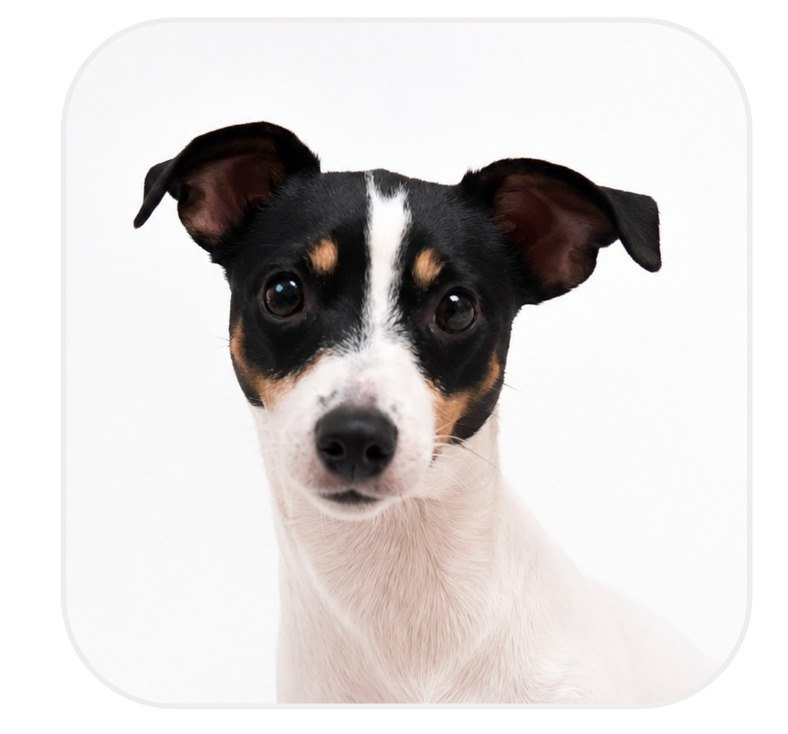
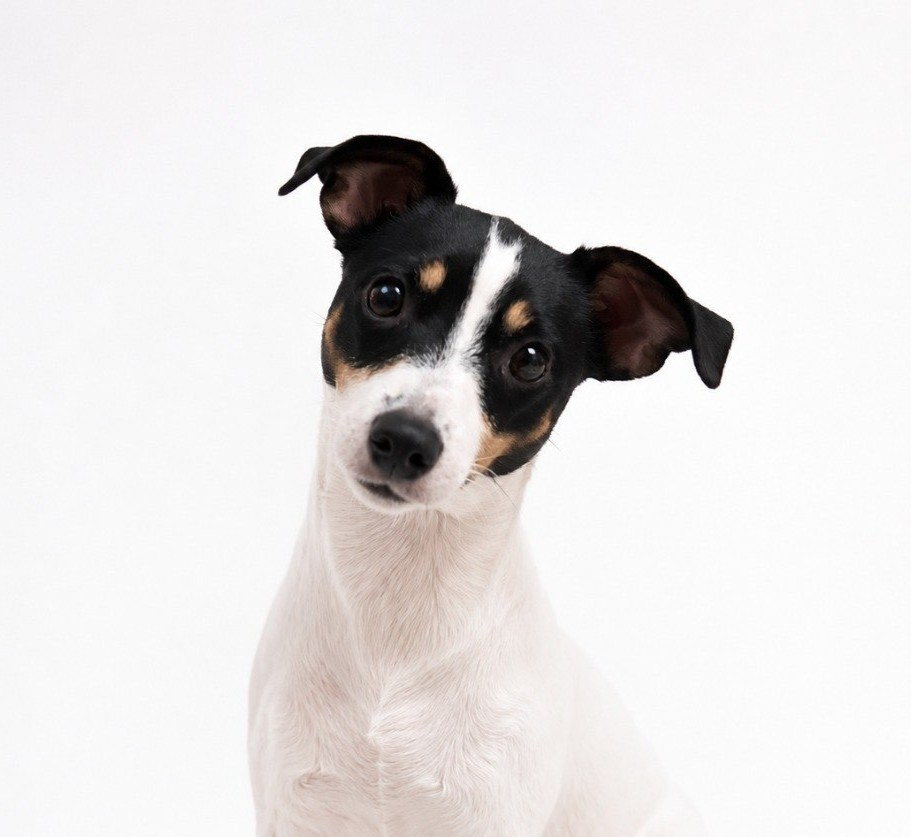
back2

Changed region(s): [[0.1523, 0.1499, 0.8528, 1.0]]

diff --git a/css/cookie-consent.css b/css/cookie-consent.css
@@ -1,0 +1,98 @@
+.cookie-consent {
+  position: fixed;
+  right: 24px;
+  bottom: 24px;
+  z-index: 1000;
+  width: min(520px, calc(100vw - 32px));
+  padding: 20px;
+  border: 1.5px solid var(--color-border, #1a1a1a);
+  border-radius: 18px;
+  background: #fffaf1;
+  color: var(--color-text, #1a1a1a);
+  box-shadow: 0 14px 34px rgba(26, 26, 26, 0.16);
+  font-family: var(--font-main, "PT Mono", monospace);
+}
+
+.cookie-consent[hidden] {
+  display: none;
+}
+
+.cookie-consent__title {
+  margin: 0 0 8px;
+  font-family: var(--font-accent, "Neucha", cursive);
+  font-size: 30px;
+  font-weight: 400;
+  line-height: 1;
+}
+
+.cookie-consent__text {
+  margin: 0;
+  font-size: 14px;
+  line-height: 1.55;
+}
+
+.cookie-consent__actions {
+  display: flex;
+  flex-wrap: wrap;
+  align-items: center;
+  gap: 10px;
+  margin-top: 16px;
+}
+
+.cookie-consent__button,
+.cookie-consent__link {
+  display: inline-flex;
+  align-items: center;
+  justify-content: center;
+  min-height: 42px;
+  padding: 11px 16px;
+  border: 1.5px solid var(--color-border, #1a1a1a);
+  border-radius: 999px;
+  color: var(--color-text, #1a1a1a);
+  font-family: inherit;
+  font-size: 13px;
+  font-weight: 700;
+  line-height: 1;
+  text-decoration: none;
+  cursor: pointer;
+}
+
+.cookie-consent__button--primary {
+  background: var(--color-accent, #ffc21a);
+  box-shadow: 0 8px 18px rgba(255, 194, 26, 0.28);
+}
+
+.cookie-consent__button--secondary,
+.cookie-consent__link {
+  background: #ffffff;
+}
+
+.cookie-consent__button:focus-visible,
+.cookie-consent__link:focus-visible {
+  outline: 2px solid var(--color-border, #1a1a1a);
+  outline-offset: 3px;
+}
+
+@media (max-width: 540px) {
+  .cookie-consent {
+    right: 12px;
+    bottom: 12px;
+    width: calc(100vw - 24px);
+    padding: 16px;
+    border-radius: 16px;
+  }
+
+  .cookie-consent__title {
+    font-size: 26px;
+  }
+
+  .cookie-consent__actions {
+    align-items: stretch;
+    flex-direction: column;
+  }
+
+  .cookie-consent__button,
+  .cookie-consent__link {
+    width: 100%;
+  }
+}

diff --git a/js/cookie-consent.js b/js/cookie-consent.js
@@ -1,0 +1,68 @@
+(function () {
+  const STORAGE_KEY = 'petlioCookieConsent';
+
+  function getStoredConsent() {
+    try {
+      return localStorage.getItem(STORAGE_KEY);
+    } catch (error) {
+      return null;
+    }
+  }
+
+  function saveConsent(value) {
+    try {
+      localStorage.setItem(STORAGE_KEY, JSON.stringify({
+        value,
+        acceptedAt: new Date().toISOString(),
+      }));
+    } catch (error) {
+      return;
+    }
+  }
+
+  if (getStoredConsent()) {
+    return;
+  }
+
+  function createBanner() {
+    const banner = document.createElement('section');
+    banner.className = 'cookie-consent';
+    banner.setAttribute('aria-label', 'Уведомление о cookie');
+    banner.innerHTML = `
+      <h2 class="cookie-consent__title">Cookie-файлы</h2>
+      <p class="cookie-consent__text">
+        Мы используем обязательные cookie для работы сайта и оформления заказа.
+        Аналитические cookie помогают нам улучшать сервис.
+      </p>
+      <div class="cookie-consent__actions">
+        <button class="cookie-consent__button cookie-consent__button--primary" type="button" data-cookie-choice="all">
+          Принять все
+        </button>
+        <button class="cookie-consent__button cookie-consent__button--secondary" type="button" data-cookie-choice="necessary">
+          Только обязательные
+        </button>
+        <a class="cookie-consent__link" href="cookie-consent.html">Подробнее</a>
+      </div>
+    `;
+
+    banner.addEventListener('click', (event) => {
+      const button = event.target.closest('[data-cookie-choice]');
+
+      if (!button) {
+        return;
+      }
+
+      saveConsent(button.dataset.cookieChoice);
+      banner.hidden = true;
+    });
+
+    document.body.appendChild(banner);
+  }
+
+  if (document.readyState === 'loading') {
+    document.addEventListener('DOMContentLoaded', createBanner);
+    return;
+  }
+
+  createBanner();
+})();

diff --git a/privacy.html b/privacy.html
@@ -8,6 +8,7 @@
   <link rel="preconnect" href="https://fonts.gstatic.com" crossorigin>
   <link href="https://fonts.googleapis.com/css2?family=Neucha&family=PT+Mono:wght@400;600;700&display=swap" rel="stylesheet">
   <link rel="stylesheet" href="css/privacy.css">
+  <link rel="stylesheet" href="css/cookie-consent.css">
 </head>
 <body>
   <header class="site-header">
@@ -115,7 +116,18 @@
         <p>E-mail: <a href="mailto:[email redacted]">[email redacted]</a></p>
         <p>Телефон: <a href="tel:[phone redacted]">[phone redacted]</a></p>
       </section>
+
+      <section>
+        <h2>10. Использование cookie-файлов и похожих технологий</h2>
+        <p>Сайт PETLIO может использовать cookie-файлы, localStorage и иные похожие технологии, необходимые для корректной работы сайта, оформления заказа, сохранения выбранных пользователем настроек и повышения удобства использования сервиса.</p>
+        <p>Обязательные cookie и технические записи используются для работы основных функций сайта, включая оформление заказа, сохранение выбранного размера адресника, данных конструктора и выбранного пользователем варианта согласия. Такие технологии не предназначены для рекламного профилирования пользователя.</p>
+        <p>Аналитические cookie могут использоваться только для получения обобщенной статистики о посещаемости сайта, понимания того, как посетители используют сайт, выявления технических ошибок и улучшения сервиса. При использовании аналитических cookie PETLIO стремится не обрабатывать больше данных, чем необходимо для указанных целей.</p>
+        <p>При первом посещении сайта пользователю показывается уведомление о cookie-файлах. Нажимая «Принять все», пользователь соглашается на использование обязательных и аналитических cookie. Нажимая «Только обязательные», пользователь отказывается от аналитических cookie, при этом обязательные cookie и технические записи, необходимые для работы сайта, могут продолжать использоваться.</p>
+        <p>Пользователь может ограничить или удалить cookie-файлы в настройках своего браузера. Ограничение обязательных cookie или технического хранилища браузера может привести к некорректной работе отдельных функций сайта, включая оформление заказа и сохранение данных конструктора.</p>
+        <p>Подробнее об использовании cookie-файлов можно узнать на странице <a href="cookie-consent.html">cookie-consent.html</a>.</p>
+      </section>
     </article>
   </main>
+  <script src="js/cookie-consent.js"></script>
 </body>
 </html>

diff --git a/create.html b/create.html
@@ -10,6 +10,7 @@
   <link rel="stylesheet" href="css/style2.css">
   <link rel="stylesheet" href="css/animations.css">
   <link rel="stylesheet" href="css/responsive.css">
+  <link rel="stylesheet" href="css/cookie-consent.css">
 </head>
 <body>
   <header class="site-header">
@@ -248,5 +249,6 @@
 
   <script src="js/create.js"></script>
   <script src="js/slider.js"></script>
+  <script src="js/cookie-consent.js"></script>
 </body>
 </html>

diff --git a/index.html b/index.html
@@ -10,6 +10,7 @@
   <link rel="stylesheet" href="css/style.css">
   <link rel="stylesheet" href="css/animations.css">
   <link rel="stylesheet" href="css/responsive.css">
+  <link rel="stylesheet" href="css/cookie-consent.css">
 </head>
 <body>
   <header class="site-header">
@@ -244,5 +245,6 @@
   <script src="js/main.js"></script>
   <script src="js/animation.js"></script>
   <script src="js/slider.js"></script>
+  <script src="js/cookie-consent.js"></script>
 </body>
 </html>

diff --git a/order.html b/order.html
@@ -8,6 +8,7 @@
   <link rel="preconnect" href="https://fonts.gstatic.com" crossorigin>
   <link href="https://fonts.googleapis.com/css2?family=Neucha&family=PT+Mono:wght@400;600;700&display=swap" rel="stylesheet">
   <link rel="stylesheet" href="css/order.css">
+  <link rel="stylesheet" href="css/cookie-consent.css">
 </head>
 <body>
   <header class="site-header">
@@ -169,5 +170,6 @@
   </main>
 
   <script src="js/order.js"></script>
+  <script src="js/cookie-consent.js"></script>
 </body>
 </html>

diff --git a/backend/config.php b/backend/config.php
@@ -50,7 +50,7 @@ return [
         'secret_key' => env_value('YOOKASSA_SECRET_KEY', ''),
     ],
 
-    'order_email' => env_value('ORDER_EMAIL', '[email redacted]'),
+    'order_email' => env_value('ORDER_EMAIL', '[email redacted]'),
 
     'smtp' => [
         'host' => env_value('SMTP_HOST', ''),